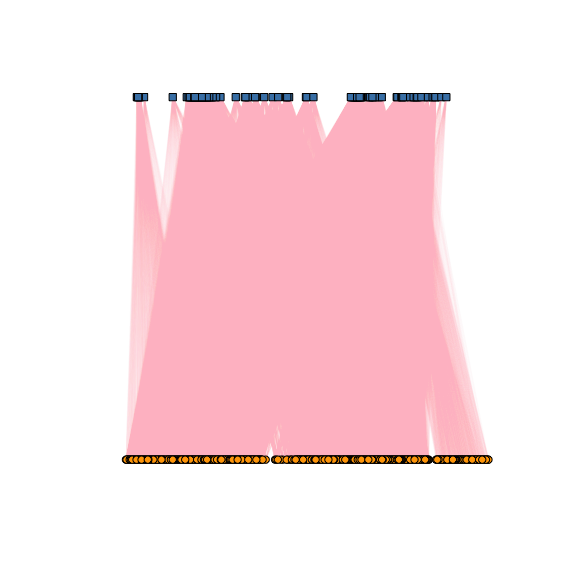
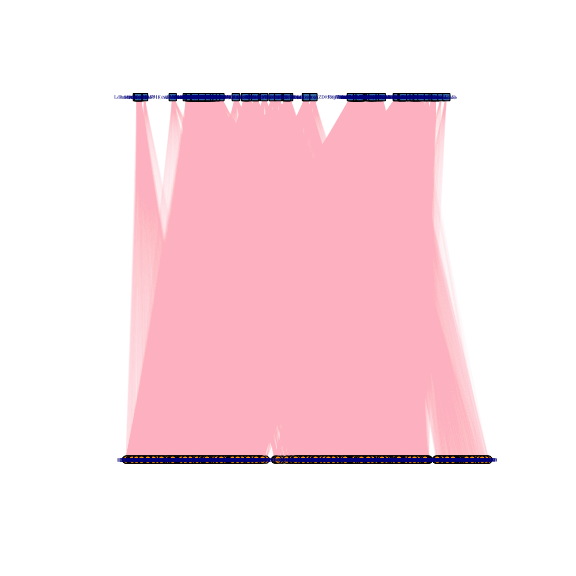
edition of readme

Changed region(s): [[0.1875, 0.7812, 0.875, 0.8125], [0.1875, 0.1562, 0.7812, 0.1875]]

diff --git a/README.md b/README.md
@@ -1,7 +1,7 @@
 
 <!-- README.md is generated from README.Rmd. Please edit that file -->
 
-# NIMAA <a href='https://github.com/jafarilab/NIMAA'><img src='man/figures/logo.png' align="right" height="139" /></a>
+# NIMAA <a href='https://github.com/jafarilab/NIMAA'><img src="man/figures/logo.png" align="right" height="139"/></a>
 
 <!-- badges: start -->
 
@@ -11,11 +11,22 @@ status](https://www.r-pkg.org/badges/version/NIMAA)](https://cran.r-project.org/
 Release](https://img.shields.io/github/release/jafarilab/NIMAA?style=flat)](https://github.com/jafarilab/NIMAA/releases)
 [![Github All
 Releases](https://img.shields.io/github/downloads/jafarilab/NIMAA/total.svg?style=flat)](https://github.com/jafarilab/NIMAA)
+
 <!-- badges: end -->
 
-The NIMAA package [@nimaa] provides a comprehensive set of methods for performing nominal data mining.
+The NIMAA package \[@nimaa\] provides a comprehensive set of methods for
+performing nominal data mining.
 
-It employs bipartite graphs to demonstrate how two nominal variables are linked, and then places them in the incidence matrix to proceed with network analysis. NIMAA aids in characterizing the pattern of missing values in a dataset, locating large submatrices with non-missing values, and predicting edges within nominal variable labels. Then, given a submatrix, two unipartite graphs are constructed using various network projection methods. NIMAA provides a variety of choices for clustering projected networks and selecting the best one. The best clustering results can also be used as a benchmark for imputation analysis in weighted bipartite networks.
+It employs bipartite graphs to demonstrate how two nominal variables are
+linked, and then places them in the incidence matrix to proceed with
+network analysis. NIMAA aids in characterizing the pattern of missing
+values in a dataset, locating large submatrices with non-missing values,
+and predicting edges within nominal variable labels. Then, given a
+submatrix, two unipartite graphs are constructed using various network
+projection methods. NIMAA provides a variety of choices for clustering
+projected networks and selecting the best one. The best clustering
+results can also be used as a benchmark for imputation analysis in
+weighted bipartite networks.
 
 ## Installation
 
@@ -35,10 +46,12 @@ devtools::install_github("jafarilab/NIMAA")
 
 ## Example
 
-### Plot the original data:
+### Plotting the original data
 
 ``` r
 library(NIMAA)
+#> Warning in register(): Can't find generic `scale_type` in package ggplot2 to
+#> register S3 method.
 ## load the beatAML data
 beatAML_data <- NIMAA::beatAML
 
@@ -46,106 +59,104 @@ beatAML_data <- NIMAA::beatAML
 beatAML_incidence_matrix <- plotInput(
   x = beatAML_data, # original data with 3 columns
   index_nominal = c(2,1), # the first two columns are nominal data
-  index_numeric = 3,  # the third column inumeric data
-  print_skim = FALSE, # if you want to check the skim output, set this as TRUE(Default)
-  plot_weight = TRUE, # when plotting the figure, show the weights
+  index_numeric = 3,  # the third column is numeric data
+  print_skim = FALSE, # if you want to check the skim output, set this as TRUE
+  plot_weight = TRUE, # when plotting the weighted incidence matrix
+  verbose = FALSE # NOT save the figures to local folder
   )
 #> 
 #> Na/missing values Proportion:     0.2603
 ```
 
-<div class="figure" style="text-align: center">
+<img src="vignettes/patient_id-inhibitor.png" title="The beatAML dataset as an incidence matrix" alt="The beatAML dataset as an incidence matrix" width="100%" style="display: block; margin: auto;" />
 
-<img src="vignettes/patient_id-inhibitor.png" alt="beatAML dataset as incidence matrix" width="100%" />
-<p class="caption">
-beatAML dataset as incidence matrix
-</p>
-
-</div>
-
-### Plot the bipartite graph of the original data
+### Plotting the bipartite graph of the original data
 
 ``` r
-graph <- plotBipartite(inc_mat = beatAML_incidence_matrix)
+plotBipartite(inc_mat = beatAML_incidence_matrix, vertex.label.display = T)
 ```
 
 <img src="man/figures/README-plotBipartite-1.png" width="100%" style="display: block; margin: auto;" />
 
-### Extract the sub-matrices without missing data
+    #> IGRAPH ceda410 UNWB 650 47636 -- 
+    #> + attr: name (v/c), type (v/l), shape (v/c), color (v/c), weight (e/n)
+    #> + edges from ceda410 (vertex names):
+    #>  [1] Alisertib (MLN8237)      --11-00261 Barasertib (AZD1152-HQPA)--11-00261
+    #>  [3] Bortezomib (Velcade)     --11-00261 Canertinib (CI-1033)     --11-00261
+    #>  [5] Crenolanib               --11-00261 CYT387                   --11-00261
+    #>  [7] Dasatinib                --11-00261 Doramapimod (BIRB 796)   --11-00261
+    #>  [9] Dovitinib (CHIR-258)     --11-00261 Erlotinib                --11-00261
+    #> [11] Flavopiridol             --11-00261 GDC-0941                 --11-00261
+    #> [13] Gefitinib                --11-00261 Go6976                   --11-00261
+    #> [15] GW-2580                  --11-00261 Idelalisib               --11-00261
+    #> + ... omitted several edges
 
-**extractSubMatrix()** will extract the sub-matrices which have no
-missing value inside or with specific proportion of missing values
-inside (not for elements-max matrix), depends on the user’s input.
+### Extracting large submatrices without missing values
+
+The `extractSubMatrix()` function extracts the submatrices that have
+non-missing values or have a certain percentage of missing values inside
+(not for elements-max matrix), depending on the argument’s input. The
+package vignette and help manual contain more details.
 
 ``` r
 sub_matrices <- extractSubMatrix(
-  beatAML_incidence_matrix,
-  shape = c("Square", "Rectangular_element_max"), # the shapes you want to extract
+  x = beatAML_incidence_matrix,
+  shape = c("Square", "Rectangular_element_max"), # the selected shapes of submatrices
   row.vars = "patient_id",
   col.vars = "inhibitor",
-  plot_weight = T,
+  plot_weight = TRUE,
+  print_skim = FALSE
   )
+#> binmatnest2.temperature 
+#>                20.12523 
+#> Size of Square:   96 rows x  96 columns 
+#> Size of Rectangular_element_max:      87 rows x  140 columns
 ```
 
-<div class="figure" style="text-align: center">
+<img src="vignettes/Row_wise_arrangement.png" title="Row-wise arrangement" alt="Row-wise arrangement" width="30%" />
+<img src="vignettes/Column_wise_arrangement.png" title="Column-wise arrangement" alt="Column-wise arrangement" width="100%" />
 
-<img src="vignettes/Row_wise_arrangement.png" alt="Row-wise arrangement" width="30%" />
-<p class="caption">
-Row-wise arrangement
-</p>
+### Cluster finding analysis of projected unipartite networks
 
-</div>
-
-<div class="figure" style="text-align: center">
-
-<img src="vignettes/Column_wise_arrangement.png" alt="Column-wise arrangement" width="100%" />
-<p class="caption">
-Column-wise arrangement
-</p>
-
-</div>
-
-### Do clustering based on sub-matrices
-
-**findCluster()** will perform optional pre-processing on the input
-incidence matrix, such as normalization. Then use the matrix to perform
-bipartite graph projection, and perform optional pre-processing in one
-of the specified parts, such as removing edges with lower weights, that
-is, weak edges.
+The `findCluster()` function implements seven widely used network
+clustering algorithms, with the option of preprocessing the input
+incidence matrix following the projecting of the bipartite network into
+unipartite networks. Also, internal and external measurements can be
+used to compare clustering algorithms. Details can be found in the
+package vignette and help manual.
 
 ``` r
 cls <- findCluster(
   sub_matrices$Rectangular_element_max,
   dim = 1,
-  method = "all", # clustering mehod
+  method = "all", # all available clustering methods
   normalization = TRUE, # normalize the input matrix
   rm_weak_edges = TRUE, # remove the weak edges in graph
-  rm_method = 'delete', # removing method is deleting the edges
-  threshold = 'median', # edges with weights under the median of all edges' weight are weak edges
+  rm_method = 'delete', # delete the weak edges instead of lowering their weights to 0.
+  threshold = 'median', # Use median of edges' weights as threshold
   set_remaining_to_1 = TRUE, # set the weights of remaining edges to 1
   )
+#> Warning in findCluster(sub_matrices$Rectangular_element_max, dim = 1, method =
+#> "all", : cluster_spinglass cannot work with unconnected graph
+#> 
+#> 
+#> |             |  walktrap|   louvain|   infomap| label_prop| leading_eigen| fast_greedy|
+#> |:------------|---------:|---------:|---------:|----------:|-------------:|-----------:|
+#> |modularity   | 0.0125994| 0.0825865| 0.0000000|  0.0000000|     0.0806766|   0.0825865|
+#> |avg.silwidth | 0.2109092| 0.1134990| 0.9785714|  0.9785714|     0.1001961|   0.1134990|
+#> |coverage     | 0.9200411| 0.5866393| 1.0000000|  1.0000000|     0.5806783|   0.5866393|
 ```
+
+<img src="man/figures/README-findcluster 1-1.png" width="100%" style="display: block; margin: auto;" />
 
 ### Impute missing data
 
-The **imputeMissingValue()** function can impute the missing values in
-the matrix, we only need to select which methods are needed. The result
-will be a list, each element is a matrix with no missing values.
-
-it will perform a variety of numerical imputation according to the
-user’s input, and return all the data that does not contain any missing
-data, a list of matrices.
-
--   ‘median’ will replace the missing values with the median of each
-    rows (observations)
-
--   ‘knn’ is the method in package
-
--   ‘als’ and ‘svd’ are methods from package
-
--   ‘CA’, ‘PCA’ and ‘FAMD’ are from package
-
--   others are from the famous package.
+The `imputeMissingValue()` function predicts new edges between nominal
+variables’ labels or imputes missing values in the input data matrix
+using several imputation methods. We can compare the imputation results
+using the `validateImputation()` function to choose the best method
+based on a predefined benchmark. The package vignette and help manual
+contain more details.
 
 ``` r
 imputations <- imputeMissingValue(
@@ -153,6 +164,33 @@ imputations <- imputeMissingValue(
   method = c('svd','median','als','CA')
   )
 ```
+
+``` r
+validateImputation(imputation = imputations,
+                   refer_community = cls$fast_greedy,
+                   clustering_args = cls$clustering_args)
+#> 
+#> 
+#> |       | Jaccard_similarity| Dice_similarity_coefficient| Rand_index| Minkowski (inversed)| Fowlkes_Mallows_index|
+#> |:------|------------------:|---------------------------:|----------:|--------------------:|---------------------:|
+#> |median |          0.7476353|                   0.8555964|  0.8628983|             1.870228|             0.8556407|
+#> |svd    |          0.7224792|                   0.8388829|  0.8458376|             1.763708|             0.8388853|
+#> |als    |          0.7290576|                   0.8433005|  0.8510791|             1.794478|             0.8433362|
+#> |CA     |          0.6935897|                   0.8190765|  0.8280576|             1.670030|             0.8191111|
+```
+
+<img src="man/figures/README-unnamed-chunk-6-1.png" width="100%" style="display: block; margin: auto;" />
+
+    #>   imputation_method Jaccard_similarity Dice_similarity_coefficient Rand_index
+    #> 1            median          0.7476353                   0.8555964  0.8628983
+    #> 2               svd          0.7224792                   0.8388829  0.8458376
+    #> 3               als          0.7290576                   0.8433005  0.8510791
+    #> 4                CA          0.6935897                   0.8190765  0.8280576
+    #>   Minkowski (inversed) Fowlkes_Mallows_index
+    #> 1             1.870228             0.8556407
+    #> 2             1.763708             0.8388853
+    #> 3             1.794478             0.8433362
+    #> 4             1.670030             0.8191111
 
 ## License
 
